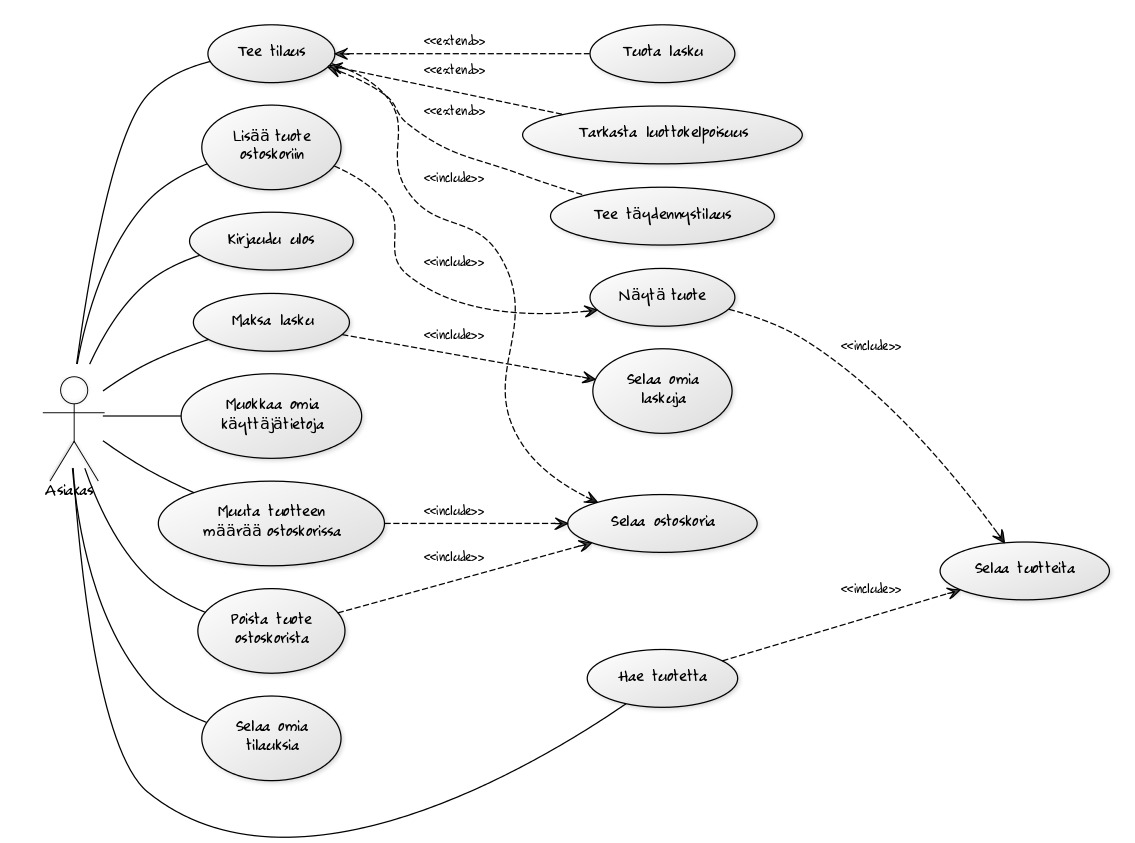
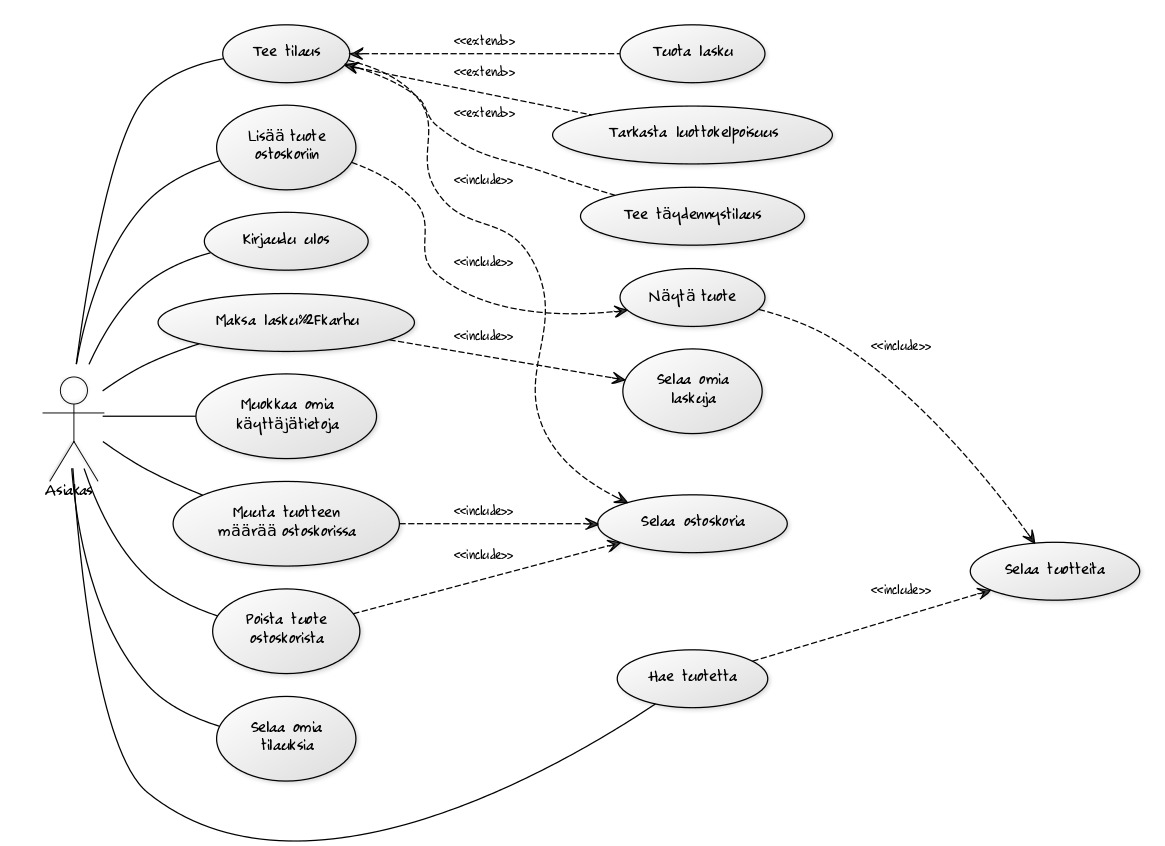
Lisätty tarvittava dokumentaatio

diff --git a/application/user_items/views.py b/application/user_items/views.py
@@ -28,8 +28,9 @@ def user_items_ordered_index():
 @app.route("/user_items/new/<item_id>", methods=["POST"])
 @login_required(role="CUSTOMER")
 def user_items_create(item_id):
+    item_id = int(item_id)
     form = UserItemCheckForm(request.form)
-    form.item_id = int(item_id)
+    form.item_id = item_id
     if not form.validate():
         return render_template("items/view.html", form=form, item=Item.query.get(item_id))
     user_item = UserItem(item_id, current_user.id, form.quantity.data)

diff --git a/README.md b/README.md
@@ -1,9 +1,7 @@
 # Tukkuliikkeen tilaustenkäsittely
 
-### Aihekuvaus ([IS98JP2](https://advancedkittenry.github.io/suunnittelu_ja_tyoymparisto/aiheet/Tukkuliikkeen_tilaustenksittely.html))
-Tehtävänä on laatia järjestelmä, jolla voidaan hoitaa tukkuliikkeen tilaustenkäsittely, varaston ylläpito sekä asiakaslaskutus. Asiakkaat jättävät tilaukset elektronisten lomakkeiden avulla ja saavat myös järjestelmältä automaattisesti vahvistuksen tai ilmoituksen, miksi tilausta ei voida hyväksyä. Tilausta ei voida hyväksyä, jos tilattavaa tuotemäärä ei ole varastossa tai asiakkaalla on viivästyneitä ja edelleen maksamattomia laskuja. Jokaiselle varastotuotteelle on määritelty tilauskynnys ja sen tultua alitetuksi luodaan automaattisesti varaston täydennystilaus tuotteen tuottajalle. Asiakkaalle toimistetuista tuotteista pidetään kirjaa. Toimistusten jälkeen asiakkaalle lähetetään lasku. Myös laskujen maksuseuranta kuuluu järjestelmän piiriin.
-
-Huom. Eri toimintojen käynnistäminen voi olla manuaalinen toimenpide tai ne voidaan tehdää automaattisiksi laukaisimien avulla. Kysy aiheesta lisää ohjaajalta.
+### Aihekuvaus (muokattu [IS98JP2](https://advancedkittenry.github.io/suunnittelu_ja_tyoymparisto/aiheet/Tukkuliikkeen_tilaustenksittely.html))
+Tehtävänä on laatia järjestelmä, jolla voidaan hoitaa tukkuliikkeen tilaustenkäsittely, varaston ylläpito sekä asiakaslaskutus. Asiakkaat jättävät tilaukset elektronisten lomakkeiden avulla. Tuotteet pitää ensin lisätä ostoskoriin. Järjestelmä osaa myös tarvittaessa ilmoittaa miksi tilausta ei voida hyväksyä. Tilausta ei voida hyväksyä, jos tilattavaa tuotemäärä ei ole varastossa tai asiakkaalla on maksamattomia karhuja. Jokaiselle varastotuotteelle on määritelty tilauskynnys ja sen tultua alitetuksi luodaan automaattisesti varaston täydennystilaus tuotteen tuottajalle. Asiakkaalle toimistetuista tuotteista pidetään kirjaa. Toimistusten jälkeen asiakkaalle lähetetään lasku. Myös laskujen maksuseuranta kuuluu järjestelmän piiriin.
 
 Toimintoja:
 
@@ -25,29 +23,52 @@ Toimintoja:
 4. asetetaan vaadittu ympäristömuuttuja komennolla ```heroku config:set HEROKU=1```
 5. lisätään Herokuun tietokanta komennolla ```heroku addons:add heroku-postgresql:hobby-dev```
 6. työnnetään projekti Herokuun komennolla ```git push heroku master```
-7. sovellus löytyy nyt Herokusta edellisen komennon antamasta osoitteesta
-8. muokataan Herokun tietokantaa komennolla ```heroku pg:psql```
-9. lisätään ylläpitäjä komennolla ```INSERT INTO account (username, password, role) VALUES ('admin', 'password', 'ADMIN');```
+7. muokataan Herokun tietokantaa komennolla ```heroku pg:psql```
+8. lisätään ylläpitäjä komennolla ```INSERT INTO account (date_created, date_modified, username, password, role) VALUES (CURRENT_TIMESTAMP, CURRENT_TIMESTAMP, 'admin', 'password', 'ADMIN')```
+9. sovelluksen osoite Herokussa saadaan komennolla ```heroku info -s  | grep web_url | cut -d= -f2```
 
 ### Käyttöohje
+
 ##### Vierailija
 * yläpalkista löytyy linkit tuotteiden selaamiseen, kirjautumiseen, sekä rekisteröitymiseen
-* kirjautuneella käyttäjällä on joko asiakkaan tai ylläpitäjän rooli
-* tuotteiden selaussivulla voidaan tuotteita hakea nimen perusteella sekä tarkastella tiettyä tuotetta
+* rekisteröitymissivulla voi rekisteröityä vain asiakkaan roolissa
+* tuotteiden selaussivulla tuotteita voidaan hakea nimen perusteella tai siirtyä tietyn tuotteen tarkastelusivulle
 
 ##### Asiakas
 * yläpalkista löytyy linkki tuotteiden selaamiseen
-* tuotteiden selaussivulla voidaan tuotteita hakea nimen perusteella sekä tarkastella tiettyä tuotetta
-* tuotteen tarkastelusivulla voidaan sitä lisätä ostoskoriin haluttu määrä
 * klikkaamalla yläpalkin oikeasta laidasta löytyvää käyttäjänimeä, aukeaa valikko, josta löytyy linkit omien käyttäjätietojen muokkaamiseen, omien laskujen/omien tilausten/ostoskorin selaamiseen sekä uloskirjautumiseen
-* omien laskujen selaussivulla tietty lasku voidaan maksaa
+* tuotteiden selaussivulla tuotteita voidaan hakea nimen perusteella tai siirtyä tietyn tuotteen tarkastelusivulle
+* tuotteen tarkastelusivulla voidaan sitä lisätä ostoskoriin haluttu määrä
+* omien laskujen selaussivulla tietty lasku tai karhu voidaan maksaa
 * ostoskorin selaussivulla sen sisältö voidaan tilata, tietyn tuotteen määrää ostoskorissa voidaan muuttaa tai tuote voidaan poistaa ostoskorista
 
 ##### Ylläpitäjä
-* yläpalkista löytyy linkit uuden tuotteen lisäämiseen sekä käyttäjien/laskujen/tuotteiden selaamiseen
-* klikkaamalla yläpalkin oikeasta laidasta löytyvää käyttäjänimeä, aukeaa valikko, josta löytyy linkit omien käyttäjätietojen muokkaamiseen ja uloskirjautumiseen
-* käyttäjien selaussivulla voidaan käyttäjää hakea käyttäjänimen perusteella sekä poistaa tietty asiakas
-* tuotteiden selaussivulla voidaan nyt lisäksi muokata tiettyä tuotetta tai se voidaan poistaa järjestelmästä
+* yläpalkista löytyy linkit uuden tuotteen lisäämiseen sekä käyttäjien/maksamattomien laskujen/tuotteiden selaamiseen
+* klikkaamalla yläpalkin oikeasta laidasta löytyvää käyttäjänimeä, aukeaa valikko, josta löytyy linkit omien käyttäjätietojen muokkaamiseen sekä uloskirjautumiseen
+* käyttäjien selaussivulla käyttäjiä voidaan hakea käyttäjänimen perusteella, siirtyä tietyn käyttäjän tarkastelusivulle/omien käyttäjätietojen muokkaamissivulle sekä poistaa tietty asiakas
+* laskujen selaamissivulla laskuja voidaan hakea käyttäjänimen perusteella sekä luoda karhu erääntyneen laskun tilalle
+* tuotteiden selaussivulla tuotteita voidaan hakea nimen perusteella, siirtyä tietyn tuotteen tarkastelu-/muokkaussivulle tai poistaa se järjestelmästä
+
+### Rajoitteet
+* ylläpitäjät lisätään tietokantaan manuaalisesti asennusohjeiden mukaisesti
+* ylläpitäjiä ei voi poistaa
+* sivutus on toteutettu s.e. kaikilla selaussivuilla on viisi alkiota
+* kaikki laskut on asetettu erääntymään yhdessä minuutissa
+* kaikkien karhujen viivästyskorko on 10%
+* varaston täydennystilaus on aina kaksi kertaa tuotteen tilauskynnys
+* tiettyä tuotetta voi olla ostoskorissa korkeintaan 99 kpl
+* kaikki ajat UTC
+
+### Puuttuvat ominaisuudet
+* tuotekategoriat
+* salasanojen tallennus salatussa muodossa
+* erillinen asetussivu esim. sivutukselle, viivästyskorolle, erääntymisajalle ja aikavyöhykkeelle
+* indeksien käyttö
+
+### Omat kokemukset
+* minulla oli aiemmin jonkin verran Python-kokemusta, mutta tämä oli ensimmäinen isompi projekti
+* koska Python on kompakti kieli ja malli/näkymä -arkkitehtuuri selkeä, koodaaminen oli mukavaa ja uusien ominaisuuksien lisääminen suoraviivaista
+* en ollut ennen käyttänyt Bootstrapia, mutta sen avulla oli helppo toteuttaa yleisiä web-sivujen komponentteja
 
 ### Muu dokumentaatio
 * [käyttötapaukset](/documentation/käyttötapaukset.md)

diff --git a/documentation/käyttötapaukset.md b/documentation/käyttötapaukset.md
@@ -1,10 +1,30 @@
 # Käyttötapaukset
 
 ### Asiakas
+
+##### Käyttötapauskaavio
 ![](/documentation/asiakas_käyttötapauskaavio.jpg)
 
+##### Valikoituja SQL-kyselyitä
+* Lisää tuote ostoskoriin: ```INSERT INTO user_item (date_created, date_modified, item_id, user_id, quantity, ordered) VALUES (CURRENT_TIMESTAMP, CURRENT_TIMESTAMP, 1, 2, 1, 0)```
+* Selaa ostoskoria: ```SELECT * FROM user_item WHERE user_item.user_id = 2 AND user_item.ordered = 0 LIMIT 5 OFFSET 0```
+* Tee tilaus: ```UPDATE user_item SET date_modified=CURRENT_TIMESTAMP, ordered=1 WHERE user_item.id = 1```, ```UPDATE item SET date_modified=CURRENT_TIMESTAMP, stock=19 WHERE item.id = 1```
+
 ### Vierailija
+
+##### Käyttötapauskaavio
 ![](/documentation/vierailija_käyttötapauskaavio.jpg)
 
+##### Valikoituja SQL-kyselyitä
+* Rekisteröidy: ```INSERT INTO account (date_created, date_modified, username, password, role) VALUES (CURRENT_TIMESTAMP, CURRENT_TIMESTAMP, 'user', '12345678', 'CUSTOMER')```
+* Hae tuotetta: ```SELECT * FROM item WHERE item.name LIKE '%A%' LIMIT 5 OFFSET 0```
+
 ### Ylläpitäjä
+
+##### Käyttötapauskaavio
 ![](/documentation/ylläpitäjä_käyttötapauskaavio.jpg)
+
+##### Valikoituja SQL-kyselyitä
+* Luo karhu: ```UPDATE invoice SET date_modified=CURRENT_TIMESTAMP, total=110 WHERE invoice.id = 1```
+* Selaa tuotteita: ```SELECT * FROM item LIMIT 5 OFFSET 0```
+* Poista käyttäjä: ```DELETE FROM user_item WHERE user_item.id = 1```, ```DELETE FROM invoice WHERE invoice.id = 1```, ```DELETE FROM account WHERE account.id = 2```

diff --git a/documentation/tietokantarakenne.md b/documentation/tietokantarakenne.md
@@ -3,6 +3,12 @@
 ### Tietokantakaavio
 ![](/documentation/tietokantakaavio.jpg)
 
+### Normalisointi
+* kaikki tietokantataulut ovat ensimmäisessä normaalimuodossa, koska sarakkeiden arvot eivät sisällä listoja, eivät muodosta toistuvia ryhmiä, yhden sarakkeen arvot ovat samaa tyyppiä, sarakkeiden nimet ovat uniikkeja kussakin taulussa ja sarakkeiden/rivien järjestys ei vaikuta tietokantataulun toimintaan
+* kaikki tietokantataulut ovat toisessa normaalimuodossa, koska ne ovat ensimmäisessä normaalimuodossa ja jokaisessa taulussa on erikseen määritelty pääavain
+* taulut invoice ja user_item ovat kolmannessa normaalimuodossa, koska ne ovat toisessa normaalimuodossa ja niiden sarakkeet eivät ole transitiivisesti riippuvaisia taulun pääavaimesta
+* taulut item ja account eivät ole kolmannessa normaalimuodossa, koska käytettävyyden kannalta on järkevää, että käyttäjänimet sekä tuotteiden nimet ovat uniikkeja
+
 ### CREATE TABLE -lauseet
 ```
 CREATE TABLE account (
@@ -55,4 +61,5 @@ CREATE TABLE user_item (
 	FOREIGN KEY(item_id) REFERENCES item (id), 
 	FOREIGN KEY(user_id) REFERENCES account (id), 
 	CHECK (ordered IN (0, 1))
+)
 ```
